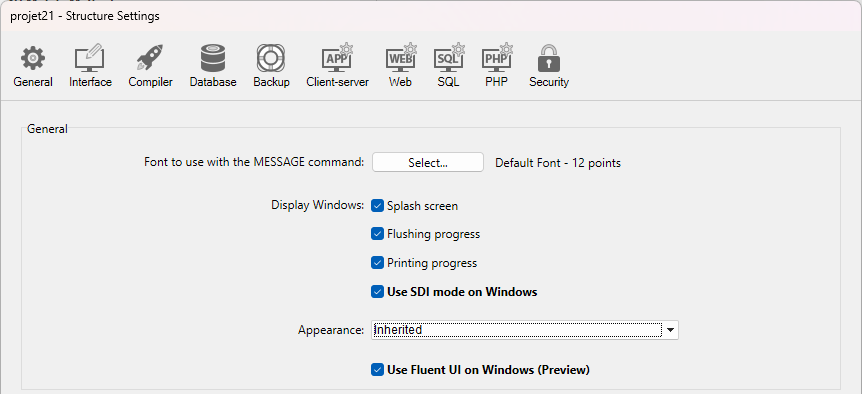
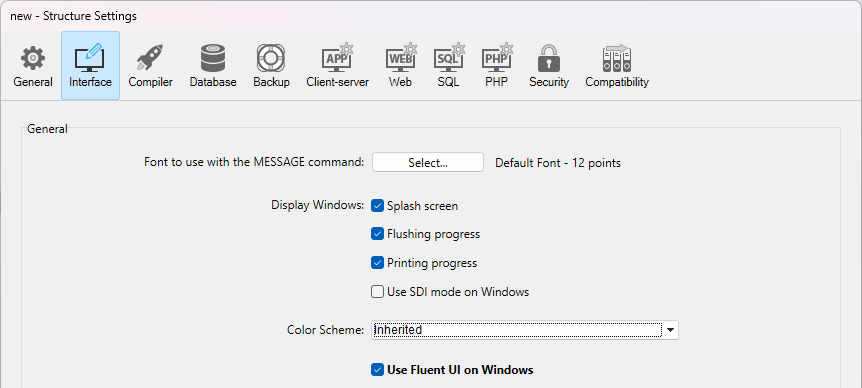
managing feature

diff --git a/sidebars.js b/sidebars.js
@@ -605,7 +605,7 @@ module.exports =
                 "commands-legacy/form-set-size",
                 "commands-legacy/form-set-vertical-resizing",
                 "commands-legacy/form-unload",
-                "commands/form-windows-theme"
+                "commands/form-theme"
               ]
             },
             {

diff --git a/docs/Desktop/building.md b/docs/Desktop/building.md
@@ -494,10 +494,6 @@ A module is a built-in code library used by 4D to control specific features. If 
 The following optional modules can be deselected:
 
 * **CEF**: Chromium embedded library. It is necessary to run [Web areas](../FormObjects/webArea_overview.md) that use the embedded rendering engine and [4D View Pro areas](../FormObjects/viewProArea_overview.md). Calling such areas when CEF is deselected will display blank areas and/or generate errors.
-* **MeCab**: Library used for text indexing in Japanese language (see this [settings paragraph](../settings/database.md#support-of-mecab-japanese-version)). Deselecting this module will force text indexes to be rebuilt in Japanese language.
-
-> If you deselect MeCab for an application in Japanese language used on heterogeneous platforms, make sure to deselect it on both client/server build and [client application build](#build-client-application) (for the concurrent platform), otherwise major malfunctions will occur in the application.
-
 * **SpellChecker**: Used for built-in [spellchecking features](../FormObjects/properties_Entry.md#auto-spellcheck) and commands available for input areas and 4D Write Pro areas.
 * **4D Updater**: Controls the [automatic update](#what-is-a-clientserver-application) of client parts and is used by the `SET UPDATE FOLDER` command for [automated server updates](#automatic-updating-of-server-or-single-user-applications).
 * **4D Qodly Pro and Data Explorer**: Includes [Qodly Studio and its web renderering features](https://developer.4d.com/qodly/) as well as the [Data Explorer](../Admin/dataExplorer.md). 

diff --git a/docs/FormEditor/forms.md b/docs/FormEditor/forms.md
@@ -124,9 +124,9 @@ This feature can be used **in 4D projects on Windows**. It is not available on m
 
 ### Requirements
 
-The Fluent UI rendering requires that the ***Windows App SDK** be installed on your machine ([download page](https://learn.microsoft.com/en-us/windows/apps/windows-app-sdk/downloads)). You need to make sure this SDK is installed on any Windows machine displaying your forms.
+The Fluent UI rendering requires that the **Windows App SDK** be installed on your machine ([download page](https://learn.microsoft.com/en-us/windows/apps/windows-app-sdk/downloads)). You need to make sure this SDK is installed on any Windows machine displaying your forms.
 
-If the Windows App SDK is not properly installed, 4D will render all your forms in classic mode with no error. 
+If the Windows App SDK is not properly installed, 4D will render all your forms in classic mode with no error and the following warning will be recorded in the [diagnostic log](../Debugging/debugLogFiles.md#4ddiagnosticlogtxt): "Fluent UI is required but not available. The application runs in the Classic Windows look."
 
 ### Enabling the Fluent UI rendering
 
@@ -139,6 +139,12 @@ Check the **Use Fluent UI on Windows** option in the "Interface" page of the Set
 ![](../assets/en/FormObjects/fluentui-setting.png)
 
 In this case, the Fluent UI rendering mode will be used by default on Windows for all forms.
+
+:::note
+
+If the current configuration is not compliant with the [Fluent UI requirements](#requirements), an error message is displayed next to the check box.
+
+:::
 
 #### Form setting
 

diff --git a/docs/API/FileClass.md b/docs/API/FileClass.md
@@ -554,6 +554,7 @@ You want to rename "ReadMe.txt" in "ReadMe_new.txt":
 
 |Release|Changes|
 |---|---|
+|21 R2|support of removeFluentUI|
 |20 R9|Read UUIDs in macOS executables|
 |20|Support of WinIcon|
 |19|Added|
@@ -600,14 +601,15 @@ Each valid property set in the *info* object parameter is written in the version
 
 |Property|Type|Comment|
 |---|---|---|
-|InternalName|Text||
-|ProductName|Text||
 |CompanyName|Text||
-|LegalCopyright|Text||
-|ProductVersion|Text||
 |FileDescription|Text||
 |FileVersion|Text||
+|InternalName|Text||
+|LegalCopyright|Text||
 |OriginalFilename|Text||
+|ProductName|Text||
+|ProductVersion|Text||
+|removeFluentUI|Boolean|True to remove the [Fluent UI](../FormEditor/forms.md#fluent-ui-rendering) manifest from the build. Write-only property. Using False or omitting the property does nothing.|
 |WinIcon|Text|Posix path of .ico file. This property applies only to 4D generated executable files.|
 
 For all properties except `WinIcon`, if you pass a null or empty text as value, an empty string is written in the property. If you pass a value type different from text, it is stringified.

diff --git a/docs/Notes/updates.md b/docs/Notes/updates.md
@@ -10,7 +10,7 @@ Read [**What’s new in 4D 21 R2**](https://blog.4d.com/en-whats-new-in-4d-21-r2
 #### Highlights
 
 - Support of [**fluent UI** rendering](../FormEditor/forms.md#fluent-ui-rendering) on Windows: 
-    - new [`FORM Theme`](../commands/form-theme.md) command, 
+    - new [`FORM theme`](../commands/form-theme.md) command, 
     - new [`form-theme` css media query](../FormEditor/createStylesheet.md#media-queries), 
     - new [**Use Fluent UI on Windows**](../settings/interface.md#use-fluent-ui-on-windows) option in the Settings dialog box,
 - [Code Live Checker](../code-editor/write-class-method.md#warnings-and-errors) has been enhanced to provide greater precision in error detection (see [this blog post](https://blog.4d.com/better-error-handling-and-type-inference-for-4d-developers) for more information).

diff --git a/docs/GettingStarted/Installation.md b/docs/GettingStarted/Installation.md
@@ -21,6 +21,12 @@ Additional technical details are available on the 4D website's [Resources page](
 
 2. Click on the download link for your 4D product and follow the on-screen instructions.
 
+:::info
+
+The Windows Setup panel includes a link allowing you to download the **Windows App SDK** installer. You need to install this SDK to [use Fluent UI in 4D applications on Windows](../FormEditor/forms.md#fluent-ui-rendering). 
+
+:::
+
 
 ## Sign in
 
